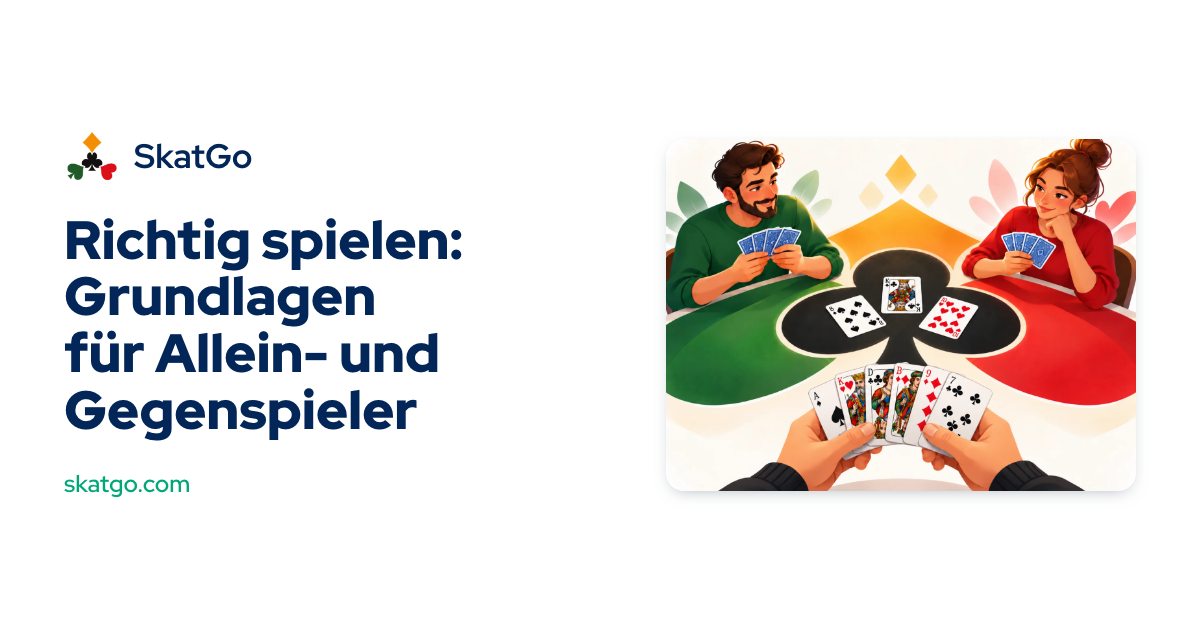
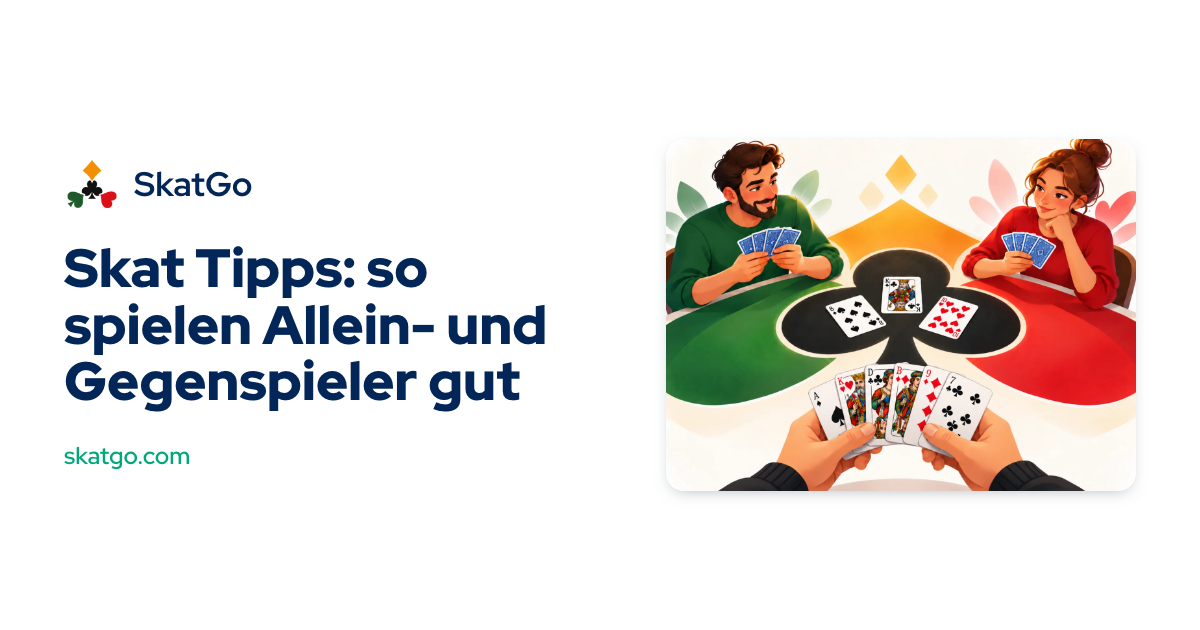
SKATGO-52 各节课对准主题搜索词，英文第 1 课做入口，导语移到课程下方；补 charter 过时

Changed region(s): [[0.0308, 0.2111, 0.4625, 0.7841]]

diff --git a/app/src/lib/skat/lessons/guide.de.ts b/app/src/lib/skat/lessons/guide.de.ts
@@ -7,12 +7,12 @@ import type { LessonGuide } from '../rules/types'
 export const GUIDE_DE: Record<string, LessonGuide> = {
   '1': {
     slug: 'wie-funktioniert-skat',
-    question: 'Wie funktioniert Skat? Spieler, Karten und Ziel',
-    h1: 'Wie Skat funktioniert: drei Spieler, 32 Karten',
+    question: 'Wie spielt man Skat? Skat kurz erklärt',
+    h1: 'Wie spielt man Skat? Drei Spieler, 32 Karten',
     description:
-      'Skat kurz erklärt: drei Spieler, 32 Karten, zehn für jeden und zwei im Skat. Ein Alleinspieler spielt gegen zwei Gegenspieler und braucht 61 von 120 Augen.',
+      'Wie spielt man Skat? Kurz erklärt: drei Spieler, 32 Karten, zehn für jeden und zwei im Skat. Ein Alleinspieler spielt gegen zwei und braucht 61 von 120 Augen.',
     intro: [
-      'Skat ist das deutsche Nationalkartenspiel, ein Stichspiel für drei Personen. Gespielt wird mit **32 Karten**: vier Farben ♣ ♠ ♥ ♦ mit je 7, 8, 9, 10, Bube, Dame, König und Ass. Jeder bekommt **zehn Karten**, die letzten **zwei** liegen verdeckt in der Mitte. Das ist der **Skat**, nach dem das Spiel heißt.',
+      'Wie spielt man Skat? Skat ist das deutsche Nationalkartenspiel, ein Stichspiel für drei Personen. Gespielt wird mit **32 Karten**: vier Farben ♣ ♠ ♥ ♦ mit je 7, 8, 9, 10, Bube, Dame, König und Ass. Jeder bekommt **zehn Karten**, die letzten **zwei** liegen verdeckt in der Mitte. Das ist der **Skat**, nach dem das Spiel heißt.',
       'In jedem Spiel heißt es **einer gegen zwei**. Beim Reizen wird entschieden, wer allein spielt: Der **Alleinspieler** bekommt den Skat und sagt das Spiel an. Die anderen beiden sind die **Gegenspieler** und halten für dieses eine Spiel zusammen. Im nächsten Spiel wird neu gereizt.',
       'Dann folgen zehn Stiche. Die Karten darin haben **Augen**, im ganzen Blatt 120, und der Alleinspieler braucht **mindestens 61**. 60 zu 60 reicht nicht: Genau die Hälfte ist verloren. In dieser Lektion lernst du das alles und prüfst es gleich mit ein paar kurzen Fragen.',
     ],
@@ -20,12 +20,12 @@ export const GUIDE_DE: Record<string, LessonGuide> = {
   },
   '2': {
     slug: 'welche-karte-zaehlt-wie-viele-augen',
-    question: 'Welche Karte zählt beim Skat wie viele Augen?',
-    h1: 'Augen beim Skat: welche Karten zählen',
+    question: 'Skat Kartenwerte: Welche Karte zählt wie viele Augen?',
+    h1: 'Skat Kartenwerte: welche Karten Augen zählen',
     description:
-      'Die Augen beim Skat: Ass 11, Zehn 10, König 4, Dame 3, Bube 2, und 7, 8, 9 zählen nichts. Warum die Zehn über dem König steht und wie 120 Augen zusammenkommen.',
+      'Die Skat Kartenwerte zum Punkte zählen: Ass 11, Zehn 10, König 4, Dame 3, Bube 2, und 7, 8, 9 zählen nichts. Warum die Zehn über dem König steht.',
     intro: [
-      'Wer beim Skat einen Stich bekommt, gewinnt nicht einfach „einen Stich“, sondern die **Augen** seiner drei Karten. Nur fünf Kartenwerte zählen: **Ass 11, Zehn 10, König 4, Dame 3, Bube 2**. Siebenen, Achten und Neunen sind nichts wert und heißen Luschen.',
+      'Beim Skat Punkte zählen heißt **Augen** zählen, und dafür hat jede Karte ihren Kartenwert. Wer einen Stich bekommt, gewinnt nicht einfach „einen Stich“, sondern die **Augen** seiner drei Karten. Nur fünf Kartenwerte zählen: **Ass 11, Zehn 10, König 4, Dame 3, Bube 2**. Siebenen, Achten und Neunen sind nichts wert und heißen Luschen.',
       'Jede Farbe hat zusammen 30 Augen, das ganze Blatt also **120**, und der Alleinspieler braucht davon 61. Deshalb ist Zählen die eigentliche Kunst: Ein einziger Stich mit Ass und Zehn bringt mehr als drei Stiche voller Luschen.',
       'Für Neulinge eine Überraschung: Die **Zehn ist die zweithöchste Karte**, direkt unter dem Ass und über dem König, bei den Augen wie im Rang. Eine Fehlfarbe geht von oben nach unten A, 10, K, D, 9, 8, 7. Hier übst du das Zusammenzählen, bis es auf einen Blick klappt.',
     ],
@@ -33,21 +33,21 @@ export const GUIDE_DE: Record<string, LessonGuide> = {
   },
   '3': {
     slug: 'was-ist-trumpf-beim-skat',
-    question: 'Was ist Trumpf beim Skat? Die Buben und die Reihenfolge',
-    h1: 'Trumpf beim Skat und die vier Buben',
+    question: 'Skat Trumpf-Reihenfolge: die Buben und die Farben',
+    h1: 'Die Trumpf-Reihenfolge beim Skat und die vier Buben',
     description:
-      'Beim Skat sind die vier Buben immer die höchsten Trümpfe: ♣B, ♠B, ♥B, ♦B. Danach kommen A, 10, K, D, 9, 8, 7 der Trumpffarbe, elf Trümpfe im Farbspiel.',
+      'Die Trumpf-Reihenfolge beim Skat: Die vier Buben sind immer die höchsten Trümpfe, ♣B, ♠B, ♥B, ♦B. Danach A, 10, K, D, 9, 8, 7 der Trumpffarbe, elf Trümpfe.',
     intro: [
       'Sagt der Alleinspieler eine Farbe als **Trumpf** an, sticht jede Karte dieser Farbe jede Karte der anderen Farben. Eine Trumpf-7 sticht das Ass einer Fehlfarbe. Das ist das ganze Vorrecht des Trumpfs, und es entscheidet die meisten Spiele.',
-      'Darüber steht die berühmteste Regel beim Skat: **Die vier Buben sind immer Trumpf, und zwar die vier höchsten**, egal welche Farbe gewählt wird. Untereinander gilt ♣B, ♠B, ♥B, ♦B; der Kreuz-Bube ist die höchste Karte im Spiel. Unter den Buben folgen Ass, Zehn, König, Dame, 9, 8 und 7 der Trumpffarbe. Ein Farbspiel hat also **elf Trümpfe**.',
+      'Darüber steht die berühmteste Regel beim Skat: **Die vier Buben sind immer Trumpf, und zwar die vier höchsten**, egal welche Farbe gewählt wird. Die Buben-Reihenfolge folgt der Farben-Reihenfolge Kreuz, Pik, Herz, Karo: ♣B, ♠B, ♥B, ♦B; der Kreuz-Bube ist die höchste Karte im Spiel. Unter den Buben folgen Ass, Zehn, König, Dame, 9, 8 und 7 der Trumpffarbe. Ein Farbspiel hat also **elf Trümpfe**.',
       'Der Haken: Ein Bube gehört nicht mehr zu der Farbe, die auf ihm steht. Im Herzspiel ist der ♣B kein Kreuz, sondern Trumpf. In dieser Lektion suchst du die Trümpfe aus einem Blatt heraus und ordnest sie, bis die Reihenfolge sitzt.',
     ],
     rule: 'games',
   },
   '4': {
     slug: 'wie-bedient-man-beim-skat',
-    question: 'Wie bedient man beim Skat? Wer den Stich bekommt',
-    h1: 'Bedienen und Stiche gewinnen beim Skat',
+    question: 'Bedienen beim Skat: Wann muss man bedienen?',
+    h1: 'Bedienen beim Skat und wer den Stich bekommt',
     description:
       'Bedienen beim Skat: Hast du die ausgespielte Farbe, musst du sie spielen. Buben zählen als Trumpf, und der höchste Trumpf oder die höchste Farbkarte gewinnt.',
     intro: [
@@ -59,10 +59,10 @@ export const GUIDE_DE: Record<string, LessonGuide> = {
   },
   '5': {
     slug: 'was-sind-grand-und-null',
-    question: 'Was sind Grand und Null beim Skat?',
+    question: 'Grand und Null beim Skat: die zwei anderen Spielarten',
     h1: 'Grand und Null: die beiden anderen Spielarten',
     description:
-      'Neben den vier Farbspielen gibt es beim Skat den Grand, in dem nur die Buben Trumpf sind, und Null, bei dem der Alleinspieler keinen Stich bekommen darf.',
+      'Grand und Null beim Skat: Im Grand sind nur die Buben Trumpf, beim Nullspiel darf der Alleinspieler keinen einzigen Stich bekommen. So gehen beide Spielarten.',
     intro: [
       'Der Alleinspieler muss nicht unbedingt eine Farbe ansagen. Beim Skat gibt es drei Spielarten: **Farbspiele**, in denen eine Farbe Trumpf ist, den **Grand** und das **Nullspiel**.',
       'Im **Grand** sind nur die vier Buben Trumpf, ♣B ♠B ♥B ♦B. Alle vier Farben sind Fehlfarben, jede in der Reihenfolge A, 10, K, D, 9, 8, 7. Der Alleinspieler braucht weiterhin 61 Augen. Der Grand ist das wertvollste Spiel und will viele Buben und Asse.',
@@ -72,10 +72,10 @@ export const GUIDE_DE: Record<string, LessonGuide> = {
   },
   '6': {
     slug: 'wie-berechnet-man-den-spielwert',
-    question: 'Wie berechnet man den Spielwert beim Skat?',
-    h1: 'Den Spielwert beim Skat ausrechnen',
+    question: 'Skat Spielwert berechnen: Grundwert, Spitzen, Stufe',
+    h1: 'Spielwert berechnen beim Skat: Grundwert × Stufe',
     description:
-      'Spielwert beim Skat = Grundwert × Stufe. Die Grundwerte von Farbspielen und Grand, Spitzen „mit“ und „ohne“ vom Kreuz-Buben an, dazu Spiel und Extras.',
+      'Spielwert berechnen beim Skat: Grundwert × Stufe. Die Grundwerte von Farbspielen und Grand, Spitzen „mit“ und „ohne“ vom Kreuz-Buben an, dazu Spiel und Extras.',
     intro: [
       'Jedes Spiel beim Skat hat einen **Spielwert**, und Reizen heißt nichts anderes, als Spielwerte zu nennen. Deshalb ist diese Rechnung so wichtig: **Grundwert × Stufe**. Der Grundwert hängt vom Spiel ab: ♦ Karo 9, ♥ Herz 10, ♠ Pik 11, ♣ Kreuz 12, Grand 24. Null ist anders und hat eigene feste Werte.',
       'Die Stufe beginnt mit den **Spitzen**. Leg die Trümpfe vom ♣B abwärts in eine Reihe. Hast du den ♣B, spielst du **mit** so vielen Trümpfen, wie du lückenlos von oben hast; fehlt er dir, spielst du **ohne** so viele, wie dir von oben fehlen. Beides zählt gleich, und der Skat gehört beim Zählen zu den Karten des Alleinspielers.',
@@ -85,12 +85,12 @@ export const GUIDE_DE: Record<string, LessonGuide> = {
   },
   '7': {
     slug: 'wie-reizen-funktioniert',
-    question: 'Wie Reizen beim Skat funktioniert: die Reizwerte',
+    question: 'Skat reizen erklärt: Wie Reizen beim Skat funktioniert',
     h1: 'Wie Reizen beim Skat funktioniert',
     description:
-      'Reizen beim Skat Schritt für Schritt: Mittelhand reizt Vorhand, Hinterhand fordert den Sieger, die Antwort ist Ja oder Passe, und nur echte Spielwerte zählen.',
+      'Reizen beim Skat erklärt: die Reihenfolge, wer wen reizt – Mittelhand reizt Vorhand, Hinterhand den Sieger – und wann du Ja oder Passe sagst.',
     intro: [
-      'Beim Reizen wird entschieden, wer Alleinspieler wird. Jeder Reizwert ist eine Zahl und heißt: **Das Spiel, das ich vorhabe, ist mindestens so viel wert.** Bevor du reizt, rechnest du also aus, was dein Blatt wert ist. Das ist deine Grenze.',
+      'Beim **Reizen** wird entschieden, wer Alleinspieler wird. Jeder Reizwert ist eine Zahl und heißt: **Das Spiel, das ich vorhabe, ist mindestens so viel wert.** Bevor du reizt, rechnest du also aus, was dein Blatt wert ist. Das ist deine Grenze.',
       'Gereizt wird in zwei Duellen. Links vom Geber sitzt **Vorhand**, danach kommt **Mittelhand**, und der Geber selbst ist **Hinterhand**. Zuerst **reizt Mittelhand Vorhand**: Mittelhand sagt die Zahlen, Vorhand antwortet **„Ja“** oder **„Passe“**. Dann **reizt Hinterhand den Sieger**. Wer übrig bleibt, ist Alleinspieler, und sein Spiel muss mindestens den letzten Reizwert erreichen.',
       'Gereizt werden nur Werte, die ein Spiel wirklich haben kann: 18, 20, 22, 23, 24, 27, 30 und so weiter. Reizt niemand, nicht einmal Vorhand bei 18, wird eingepasst und neu gegeben. In dieser Lektion verfolgst du echtes Reizen und lernst, wann du passen solltest.',
     ],
@@ -98,10 +98,10 @@ export const GUIDE_DE: Record<string, LessonGuide> = {
   },
   '8': {
     slug: 'was-tun-mit-dem-skat',
-    question: 'Was tun mit dem Skat? Drücken und Handspiel',
-    h1: 'Skat aufnehmen, drücken oder Hand spielen',
+    question: 'Skat drücken oder Hand spielen: Was tun mit dem Skat?',
+    h1: 'Skat drücken, aufnehmen oder Hand spielen',
     description:
-      'Was der Alleinspieler mit den zwei Skatkarten macht: aufnehmen und zwei Karten drücken oder Hand spielen, ohne hinzusehen. Welche Karten du drückst und warum.',
+      'Skat drücken oder Handspiel: Der Alleinspieler nimmt die zwei Skatkarten auf und drückt zwei Karten, oder er spielt Hand. Welche Karten du drückst und warum.',
     intro: [
       'Wer das Reizen gewinnt, bekommt die beiden verdeckten Skatkarten. Meist **nimmst du sie auf**, hast dann zwölf Karten und **drückst zwei beliebige** verdeckt weg, bevor du dein Spiel ansagst. Die gedrückten Karten spielen nicht mit, aber ihre Augen zählen für dich – ein Guthaben vor dem ersten Stich.',
       'Welche zwei? Drei Faustregeln: Augen sichern, indem du eine blanke Zehn drückst, die ein Ass fangen könnte; eine Farbe **blank machen**, damit du sie später stechen kannst; und niemals Trümpfe oder Asse drücken.',
@@ -111,10 +111,10 @@ export const GUIDE_DE: Record<string, LessonGuide> = {
   },
   '9': {
     slug: 'wie-rechnet-man-skat-ab',
-    question: 'Wie rechnet man Skat ab? Schneider, Schwarz, überreizt',
-    h1: 'Abrechnung beim Skat: Schneider, Schwarz und überreizte Spiele',
+    question: 'Skat Abrechnung: Schneider, Schwarz, überreizt',
+    h1: 'Skat Abrechnung: Schneider, Schwarz und überreizte Spiele',
     description:
-      'So wird ein Skatspiel abgerechnet: Gewonnen zählt der Spielwert, verloren das Doppelte. Dazu Schneider, Schwarz, Ansagen im Handspiel, Nullwerte, Überreizen.',
+      'Die Skat Abrechnung Schritt für Schritt: Gewonnen zählt der Spielwert, verloren das Doppelte. Dazu Schneider, Schwarz, Ansagen im Handspiel und Überreizen.',
     intro: [
       'Nach dem letzten Stich wird abgerechnet. Gewinnt der Alleinspieler, bekommt er den Spielwert gutgeschrieben. Verliert er, werden ihm **zweimal der Spielwert** abgezogen. Ein verlorenes Spiel kostet doppelt so viel, wie ein gewonnenes bringt – ein guter Grund, mit Bedacht zu reizen.',
       'Hohe Ergebnisse bringen mehr Stufen. **Schneider**: Die verlierende Seite hat 30 Augen oder weniger, eine Stufe mehr. **Schwarz**: Die verlierende Seite bekommt keinen Stich, noch eine Stufe. Das gilt in beide Richtungen: Ein Alleinspieler mit 30 Augen oder weniger zahlt den Schneider selbst. Beim Handspiel darf der Alleinspieler außerdem Schneider oder Schwarz **ansagen** oder **ouvert** spielen, also offen. Jede Ansage bringt eine Stufe mehr, aber wer sie verfehlt, verliert.',
@@ -124,25 +124,25 @@ export const GUIDE_DE: Record<string, LessonGuide> = {
   },
   '10': {
     slug: 'wie-spielt-man-gut-skat',
-    question: 'Wie spielt man gut Skat? Tipps für beide Seiten',
-    h1: 'Richtig spielen: Grundlagen für Allein- und Gegenspieler',
+    question: 'Skat Tipps: Tricks und die häufigsten Todsünden',
+    h1: 'Skat Tipps: so spielen Allein- und Gegenspieler gut',
     description:
-      'Skat-Taktik für Einsteiger: Als Alleinspieler erst Trumpf ziehen, dann Asse holen; als Gegenspieler dem Partner schmieren und nicht selbst Trumpf ausspielen.',
+      'Skat Tipps für Allein- und Gegenspieler: erst Trumpf ziehen, dann Asse holen, dem Partner schmieren – und die häufigsten Todsünden, die dich Spiele kosten.',
     intro: [
-      'Zu wissen, welche Karten erlaubt sind, ist erst der Anfang; hier geht es darum, **warum** du eine Karte spielst. Der Alleinspieler fürchtet am meisten, dass ein Gegner sein Ass mit einem kleinen Trumpf sticht. Deshalb ist der übliche Plan, zuerst **Trumpf zu ziehen**: hohe Trümpfe ausspielen, bis die Gegenspieler keine mehr haben, und dann die Asse und Zehnen der Fehlfarben in Ruhe kassieren. Ein Farbspiel hat elf Trümpfe, also verrät dir das Zählen, wie viele noch draußen sind.',
-      'Die Gegenspieler zählen ihre Augen zusammen, deshalb ist ihr wichtigster Zug das **Schmieren**: Bekommt dein Partner den Stich, leg deine fetteste Karte dazu; bekommt ihn der Alleinspieler, wirf deine billigste Lusche ab. Gegenspieler **spielen meist nicht selbst Trumpf aus**, denn damit erledigen sie die Arbeit des Alleinspielers.',
-      'Und eine Gewohnheit für alle: Wer als Letzter zum Stich legt, gewinnt ihn mit der kleinsten Karte, die gerade reicht.',
+      'Zu wissen, welche Karten erlaubt sind, ist erst der Anfang. Diese **Skat Tipps** zeigen dir, **warum** du eine Karte spielst. Als Alleinspieler fürchtest du am meisten, dass ein Gegner dein Ass mit einem kleinen Trumpf sticht. Deshalb ziehst du zuerst **Trumpf**: hohe Trümpfe ausspielen, bis die Gegner keine mehr haben, und dann die Asse und Zehnen der Fehlfarben in Ruhe kassieren. Ein Farbspiel hat elf Trümpfe; wer mitzählt, weiß, wie viele noch draußen sind.',
+      'Als Gegenspieler zählt ihr eure Augen zusammen. Bekommt dein Partner den Stich, **schmierst** du ihm deine fetteste Karte; bekommt ihn der Alleinspieler, wirfst du die billigste Lusche ab.',
+      'Die häufigsten **Todsünden**, die dir diese Lektion abgewöhnt: Asse spielen, bevor die Trümpfe draußen sind; als Gegenspieler von sich aus Trumpf ausspielen; dem Partner nichts schmieren oder dem Alleinspieler eine Zehn schenken; als Letzter mit einem hohen Trumpf stechen, wo der kleinste reicht; und Trümpfe nicht mitzählen.',
     ],
     rule: 'games',
   },
   '11': {
     slug: 'bereit-fuer-eine-echte-partie',
-    question: 'Bereit für eine echte Partie Skat? Das Abschlussspiel',
-    h1: 'Abschlussspiel: eine ganze Partie Skat',
+    question: 'Skat üben: eine ganze Partie zum Abschluss',
+    h1: 'Skat üben im Abschlussspiel: eine ganze Partie',
     description:
-      'Alles zusammen in einer kompletten Partie Skat gegen zwei Computergegner: Reizen, Skat, Ansagen, zehn Stiche und Abrechnung, mit Tipps, wann immer du willst.',
+      'Skat üben in einer kompletten Partie gegen zwei Computergegner: Reizen, Skat, Ansagen, zehn Stiche und Abrechnung, mit Tipps, wann immer du willst.',
     intro: [
-      'Jetzt geht es an den Tisch. Diese Lektion ist **ein komplettes Spiel** gegen zwei Computergegner, vom ersten Reizwert bis zur Abrechnung. Du reizt mit, und gewinnst du das Reizen, nimmst du den Skat auf oder spielst Hand, drückst zwei Karten und sagst dein Spiel an. Dann folgen zehn Stiche, und das Ergebnis wird so abgerechnet wie an einem echten Skattisch.',
+      'Jetzt geht es an den Tisch, und du kannst Skat üben. Diese Lektion ist **ein komplettes Spiel** gegen zwei Computergegner, vom ersten Reizwert bis zur Abrechnung. Du reizt mit, und gewinnst du das Reizen, nimmst du den Skat auf oder spielst Hand, drückst zwei Karten und sagst dein Spiel an. Dann folgen zehn Stiche, und das Ergebnis wird so abgerechnet wie an einem echten Skattisch.',
       'Vorher gibt es einen kurzen Spickzettel: Augen, Trumpfreihenfolge, Bedienen, Grundwerte, wie sich der Spielwert zusammensetzt und wer wen reizt. Während des Spiels kannst du jederzeit einen **Tipp** holen; er nennt dir eine Karte und sagt dir, warum.',
       'Ob gewonnen oder verloren: Wenn das Spiel vorbei ist, hast du die Lektion geschafft. Aus einem verlorenen Spiel lernst du mehr als aus einem gewonnenen, und danach bist du bereit für einen echten Skattisch.',
     ],

diff --git a/app/src/components/skat/lesson-page.tsx b/app/src/components/skat/lesson-page.tsx
@@ -16,10 +16,11 @@ import { Rich } from './ui'
 
 /**
  * The page behind /course/$slug. Every lesson opens directly, whatever the learner has done before
- * (SKATGO-7). Rendered on the server around the player (SKATGO-29): the lesson's question as its title,
- * a short explanation of the idea — what a search engine and a first-time visitor read — then the
- * interactive lesson, which only the browser renders, and the ways on: the next lesson, the section
- * of the rules it teaches, and the course's list of lessons. The route has already sent an unknown or foreign slug elsewhere.
+ * (SKATGO-7). Rendered on the server around the player (SKATGO-29): the lesson's title and its one-line
+ * promise, then at once the interactive lesson, which only the browser renders; below it a short
+ * explanation of the idea — what a search engine and a curious reader read (moved below the lesson in
+ * SKATGO-52) — and the ways on: the next lesson, the section of the rules it teaches, and the course's
+ * list of lessons. The route has already sent an unknown or foreign slug elsewhere.
  */
 export function LessonPage() {
   const { slug } = useParams({ from: '/course/$slug' })
@@ -33,18 +34,24 @@ export function LessonPage() {
   const section = RULES[locale].sections.find((s) => s.id === guide.rule)
   return (
     <>
-      <section data-testid="lesson-intro" {...stylex.props(styles.intro)}>
+      <section data-testid="lesson-head" {...stylex.props(styles.intro)}>
         <h1 {...stylex.props(typography.landingHeading, styles.title)}>{guide.h1}</h1>
         <p {...stylex.props(typography.panelLabel, styles.kicker)}>{m.lesson_kicker({ n: lesson.id, count: course.length, minutes: lesson.minutes })}</p>
+        <p data-testid="lesson-promise" {...stylex.props(typography.appText, styles.promise)}>{lesson.promise}</p>
+      </section>
+      <ClientPart>
+        <LessonPlayer key={lesson.id} lesson={lesson} />
+      </ClientPart>
+      {/* The idea in a few paragraphs, for a reader who wants it and for search engines: after the lesson,
+          so the learner starts playing at once (SKATGO-52), and visible like any other text. */}
+      <section data-testid="lesson-intro" aria-labelledby="lesson-in-short" {...stylex.props(styles.intro, styles.about)}>
+        <h2 id="lesson-in-short" {...stylex.props(typography.optionTitle, styles.title)}>{m.lesson_in_short()}</h2>
         {guide.intro.map((text) => (
           <p key={text} {...stylex.props(typography.appText, styles.text)}>
             <Rich text={text} />
           </p>
         ))}
       </section>
-      <ClientPart>
-        <LessonPlayer key={lesson.id} lesson={lesson} />
-      </ClientPart>
       <nav data-testid="lesson-links" {...stylex.props(styles.links)}>
         {following ? (
           <Link to="/course/$slug" params={{ slug: GUIDES[locale][following.id].slug }} data-testid="lesson-next" {...stylex.props(typography.appBtnStrong, styles.link)}>
@@ -79,6 +86,8 @@ const styles = stylex.create({
   },
   title: { margin: 0, color: color.navy },
   kicker: { margin: 0, color: color.slate },
+  promise: { margin: 0, color: color.navy },
+  about: { paddingTop: { default: space.x48, [bp.phone]: space.x32 } },
   text: { margin: 0, color: color.text },
   // Two plain links, one per line: a lesson's title can be long, and a link wraps where a button cannot.
   links: {

diff --git a/app/src/lib/skat/lessons/guide.en.ts b/app/src/lib/skat/lessons/guide.en.ts
@@ -7,12 +7,12 @@ import type { LessonGuide } from '../rules/types'
 export const GUIDE_EN: Record<string, LessonGuide> = {
   '1': {
     slug: 'how-does-skat-work',
-    question: 'How Does Skat Work? Players, Cards and the Goal',
-    h1: 'How Skat works: three players, 32 cards',
+    question: 'How to Play Skat: the Skat Card Game Explained',
+    h1: 'How to play Skat, the card game for three',
     description:
-      'Skat in a nutshell: three players, a 32-card deck, ten cards each and two in the skat. One declarer plays against two defenders and needs 61 of 120 card points.',
+      'How to play Skat, the card game: three players, 32 cards, ten each and two in the skat. One declarer plays against two and needs 61 of 120 card points.',
     intro: [
-      "Skat is Germany's national card game, a trick-taking game for three players. It uses a **32-card deck**: the four suits ♣ ♠ ♥ ♦, each with 7, 8, 9, 10, Jack, Queen, King and Ace. Everyone gets **ten cards**, and the last **two** go face down in the middle. Those two are the **skat**, which gives the game its name.",
+      "The Skat card game is Germany's national card game, a trick-taking game for three players. It uses a **32-card deck**: the four suits ♣ ♠ ♥ ♦, each with 7, 8, 9, 10, Jack, Queen, King and Ace. Everyone gets **ten cards**, and the last **two** go face down in the middle. Those two are the **skat**, which gives the game its name.",
       'Every deal is **one against two**. Bidding decides who plays alone: that player is the **declarer**, gets the skat and names the game. The other two become the **defenders** and team up for that one deal. Next deal, the sides are fought out again.',
       'Then come ten tricks. The cards in them carry **card points**, 120 in the whole deck, and the declarer needs **at least 61** to win. Sixty each is not enough: exactly half is a loss. This lesson walks you through it all, with a few quick questions to check it stuck.',
     ],

diff --git a/.intentfold/charter/engineering.md b/.intentfold/charter/engineering.md
@@ -78,7 +78,7 @@ also built from the repository root. Neither project imports the other's runtime
 | `app/src/lib/skat/nickname.ts` | what may stand on the public leaderboard as a nickname (SKATGO-36) |
 | `app/src/lib/daily-handler.ts`, `app/src/lib/session.ts` | the web's `/api/daily/*` proxy, and the Clerk session lookup the server routes share |
 | `app/src/components/skat/rules-page.tsx`, `bidding-table-page.tsx`, `app/src/lib/skat/rules/` | the rules reference and its text, with anchored sub-headings for topics looked up by name (`#grand`, `#null-ouvert`, `#ramsch`), and the bidding table (SKATGO-50). Every number on both pages — card points, base and Null values, the bid ladder, the multiplier limits — is rendered from `value.ts` and `cards.ts` |
-| `app/src/components/skat/daily-table.tsx`, `daily-comparison.tsx` | the tournament's button, day result and table; `/daily/play` is its full-screen page. `daily-comparison.tsx` is the computer's result of each finished deal beside the player's, and the table of both that grows by deal (SKATGO-42) |
+| `app/src/components/skat/daily-table.tsx`, `daily-comparison.tsx` | the tournament's button, day result and table; `/daily/play` is its full-screen page. `daily-comparison.tsx` is `VsAiTable`: one collapsible row per finished deal with the player's and the computer's score and their difference, opening to both deals' full result, and a total (SKATGO-42, SKATGO-48) |
 | `app/src/lib/free-handler.ts`, `app/src/lib/free-api.ts`, `app/src/components/skat/server-table.tsx` | free play on the server (SKATGO-40): the web's `/api/free/*` proxy and its per-address limits, the browser's calls, and the table free play and lesson 11 use (`GameTable` with a `server` source, hints and assistant kept) |
 | `multiplayer/` | room transport, admission, persistence, recovery, backend verification and deployment; `src/daily.ts` the daily tournament; `src/free.ts` free play; `src/computers.ts` the SkatZero computer turns both share; `scripts/make-free-pool.ts` the one-off generator of free play's pool |
 
@@ -122,6 +122,11 @@ also built from the repository root. Neither project imports the other's runtime
   stored with the deal (`benchmark`). A deal the computers cannot finish fails the day's preparation.
   A route returns a deal's result only once the player has finished that deal, shown as "AI" in the
   player's seat. Days dealt before have none.
+- **A finished deal's summary carries its whole result** (SKATGO-48). `DealSummary.detail`
+  (`lib/skat/tournament.ts`, `detailOf`) holds the game value, both sides' card points, and whether
+  it was overbid, Schneider or Schwarz; it is written when the deal ends, for the player's deals and
+  the computer's alike, and read as stored. There is no replay to fill it in for older records: the
+  human ruled out compatibility code, and production's earlier days were deleted and re-dealt.
 - **A free-play game is a deal from a committed pool, and its state travels with the page**
   (SKATGO-40).
   - The pool holds 1,000 deals (seed `skatgo-free-pool/1`). For both computers it stores the

diff --git a/.intentfold/charter/ui.md b/.intentfold/charter/ui.md
@@ -192,6 +192,7 @@ grid templates — are named in `dims`; the table's stage in `stage` (`table.sty
 | `PlayingCard` | `playing-card.tsx` | one card from the public-domain deck `@letele/playing-cards`. The face's pips and corner index take the suit scheme's colour, and the corner index is drawn `cardIndex.stroke` wide (SKATGO-47, the deck's own is 80); the deck's text is removed. Sizes `xs`, `sm`, `md`, `lg`, `table`, `trick`, `fill`; states `selected`, `dimmed` (`fill.dimmed`), `glow`, `verdict` good/bad, `faceDown` (`fill.cardBack`, skatgo's own charcoal lattice) |
 | `Fan` / `CardRowView` | `card-row.tsx` | a hand held as a fan (two rows of a long hand on a phone; `data-answer` / `data-order` for scripted checks), and a labelled row of cards for reading |
 | `Shake` / `Feedback` | `exercises.tsx` | the wordless "no" after a wrong answer, and the good/bad panel that explains it |
+| `VsAiTable` | `daily-comparison.tsx` | the daily tournament's comparison with the computer (SKATGO-48): one row per finished deal — the deal's number, the player's and the AI's score each with its role, and the difference, signed and bold, never `good` / `bad` — that opens to both deals told in full; a total row. Rows collapse instead of scrolling sideways; the newest opens after a deal and on `/daily` mid-day |
 | `GameTable` | `game-table.tsx` | the whole-game table: the felt and its stage, the info board, the seat plates, the trick, the learner's hand, the edge tabs, and the side panel — pinned beside the felt at `bp.pinned`, a drawer otherwise (SKATGO-34) |
 
 Recurring patterns — reuse them rather than inventing a neighbour:
@@ -225,9 +226,11 @@ Recurring patterns — reuse them rather than inventing a neighbour:
 - **A sub-page** (the course, a lesson, the rules, the bidding table, the daily tournament, the legal
   pages), on the
   grey page: its title is the column's first element, an `<h1>` in `landingHeading`, `color.navy`;
-  then its content in white option cards. A lesson keeps its "back / continue" bar sticky at the
-  bottom of the screen, and ends with its ways on: the next lesson, its section of the rules, and all
-  lessons.
+  then its content in white option cards. A lesson starts playing at once: under its title only a
+  one-line kicker and the lesson's promise, then the lesson, which keeps its "back / continue" bar
+  sticky at the bottom of the screen. Its short explanation for readers and search engines follows the
+  lesson, visible, under "Kurz erklärt" / "In short" (SKATGO-52); then its ways on: the next lesson,
+  its section of the rules, and all lessons.
 - **The tables** (`/play`, `/daily/play`): the felt fills the screen and never scrolls; free play
   keeps a reading section below it (SKATGO-44).
 - **Public search content** (SKATGO-44): titles, explanations and contextual links remain visible

diff --git a/.intentfold/tickets/SKATGO-52/grill.md b/.intentfold/tickets/SKATGO-52/grill.md
@@ -58,6 +58,21 @@ Grill：human，由人回答，下列建议是机器的推荐。
    - **ui.md**：组件表加一行 `VsAiTable`（`daily-comparison.tsx`）：可折叠的逐副对比行，加上合计行。
    - 建议：采纳。
 
+10. **（人在 grill 时提出）课程页上方的大段导语没人想读，人们想马上开始互动。** 建议：
+    - 课程页上方只留 h1、一行「第 n 课 · 约 x 分钟」，以及课程里已有的一句 `promise`（课程地图上显示的那句）；紧接着就是互动课程。
+    - 100–200 词的导语移到互动课程下方，加一个小标题（「Kurz erklärt」/「In short」），后面接现有的去向链接（下一课、规则小节、全部课程）。
+    - 导语照样在服务端 HTML 里、照样可见，不折叠也不隐藏。
+    - 不用 JS 的抓取器看到的顺序仍然是 h1 → 一句话 → 导语，因为互动部分只在浏览器里渲染。
+    - ui.md 子页面那一行（「A lesson … ends with its ways on」）补一句导语在课程下方。
+    - 理由：
+      - 折叠或隐藏的文字，Google 可能降权；ui.md 也写明「不用隐藏的关键词文字」；
+      - 放在下方，既不挡学习，又保留了 SEO 内容；
+      - 这次本来就要改每节课的导语，改放的位置顺手在本单完成。
+    - 本单范围：属于「公开导语」怎么呈现，课程内容、练习和顺序不变。人同意后，在工单评论里记下这项变更。
+
 ## 回答
 
-（待人回答）
+人在 2026-10-07 答：「同意，开始做吧」，10 题全部按建议采纳。
+- 第 1 题：第 10 课标题用推荐的「Skat Tipps: Tricks und die häufigsten Todsünden」（不含「für Anfänger」）。
+- 第 9 题：charter 三处按建议更新（人授权）。
+- 第 10 题：导语移到互动课程下方，课程页上方只留 h1、一行课次和 promise；这项变更记在工单评论里。
